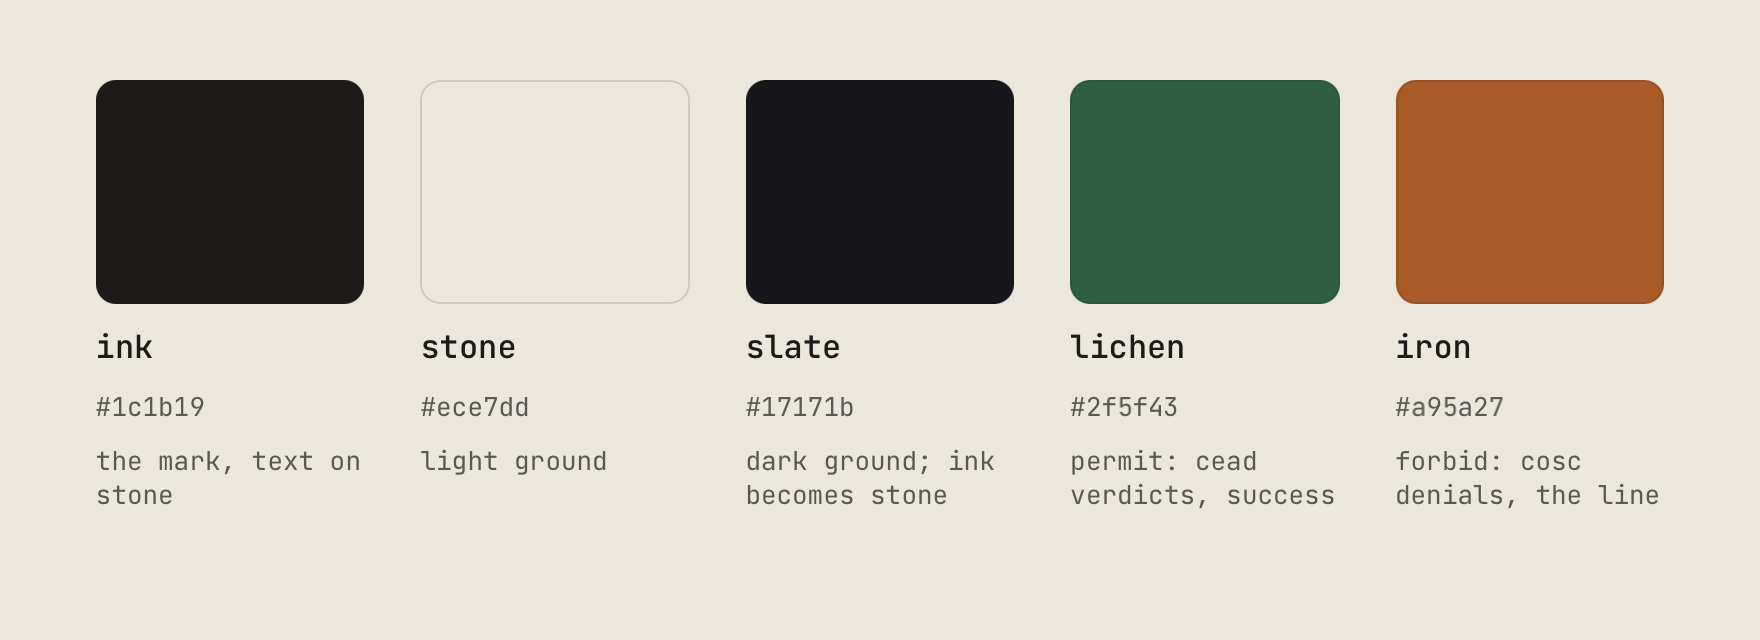
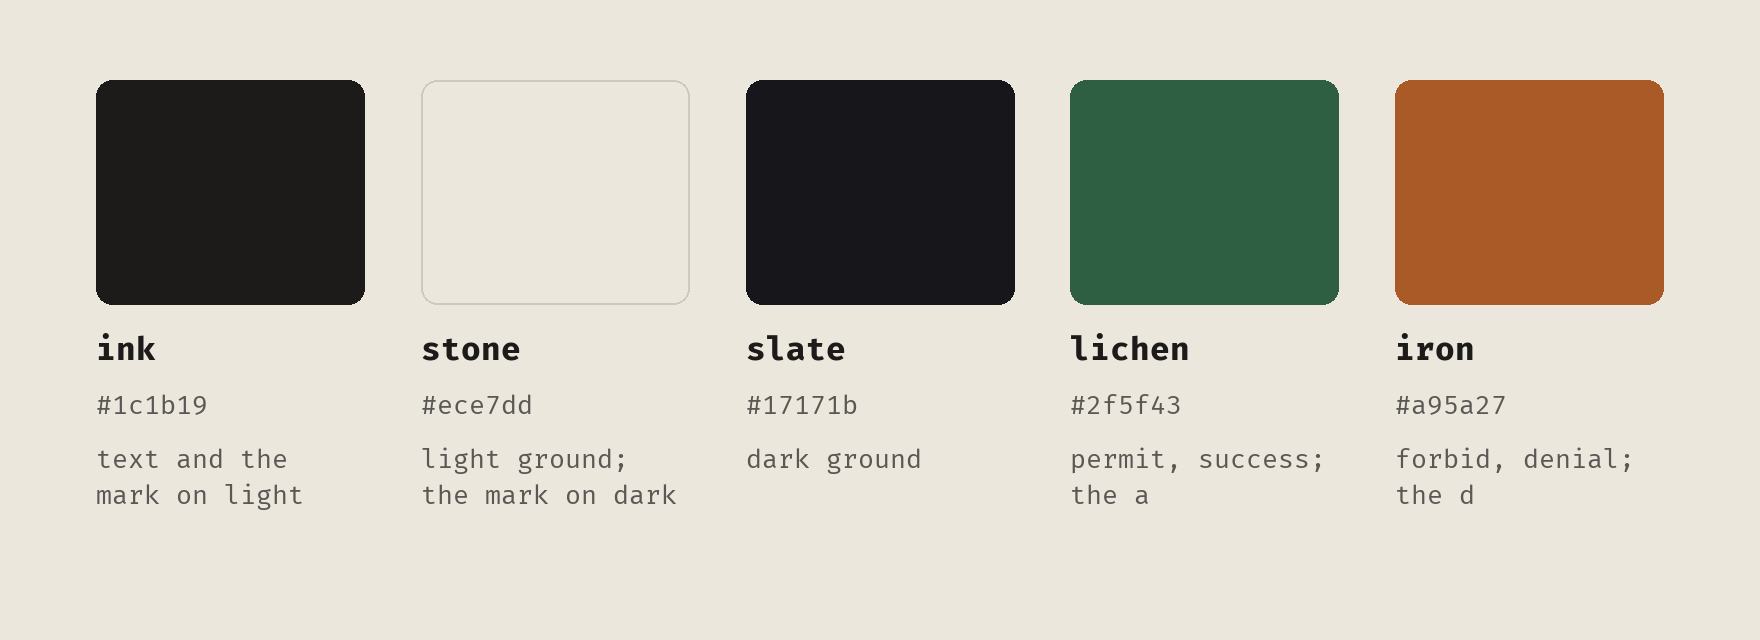
Make the lockups SVG and regenerate the palette and terminal mockup

diff --git a/README.md b/README.md
@@ -1,7 +1,7 @@
 <p align="center">
   <picture>
-    <source media="(prefers-color-scheme: light)" srcset="assets/lockup-light.png">
-    <img src="assets/lockup.png" width="220" alt="cead">
+    <source media="(prefers-color-scheme: light)" srcset="assets/lockup-light.svg">
+    <img src="assets/lockup.svg" width="220" alt="cead">
   </picture><br>
   <em>cead</em> (Irish: permission; "kyad")
 </p>
